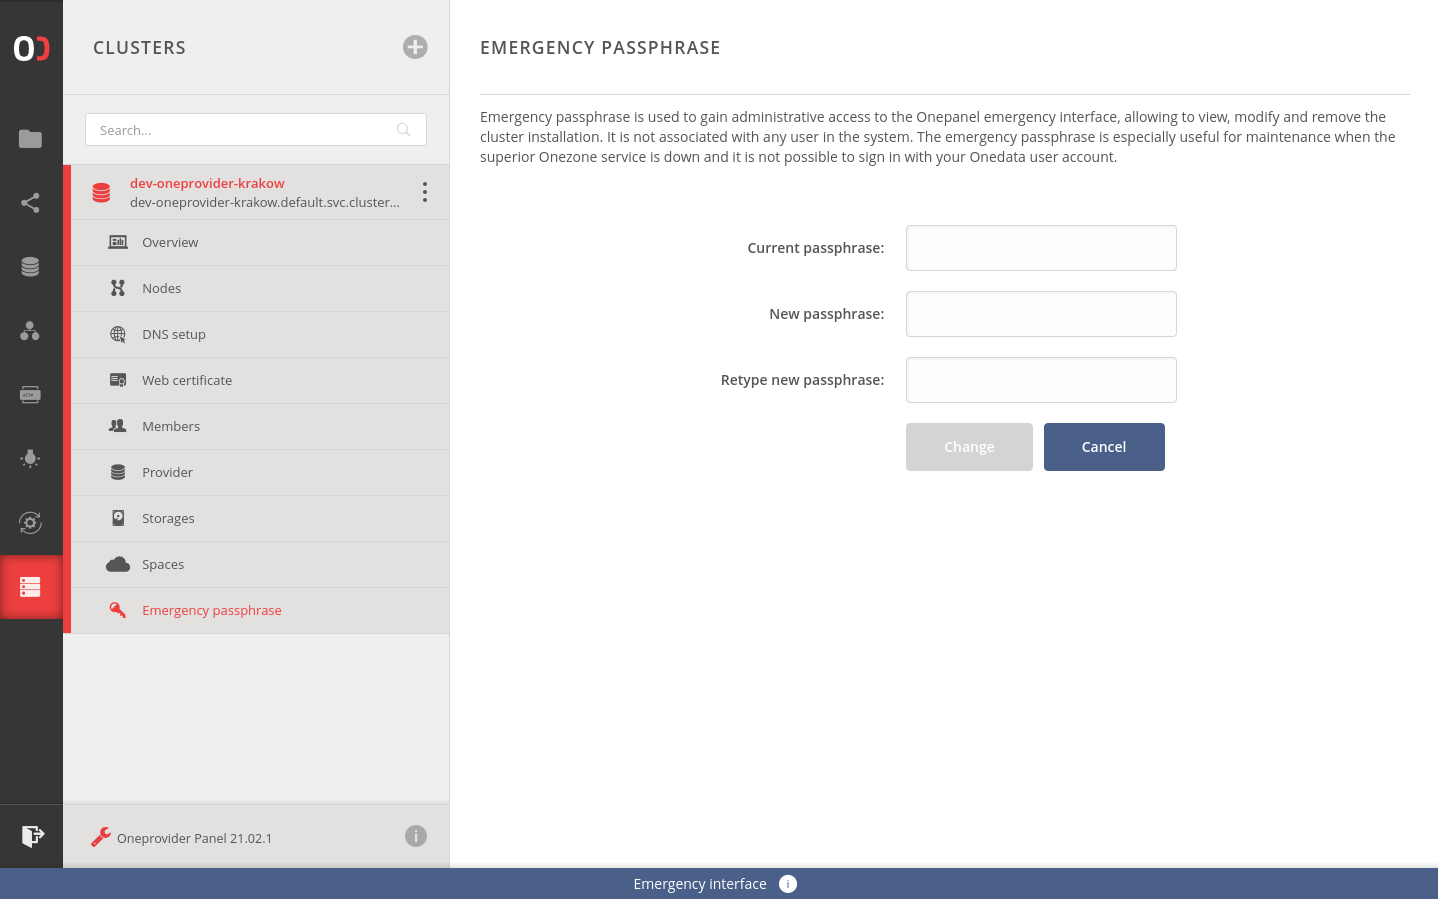
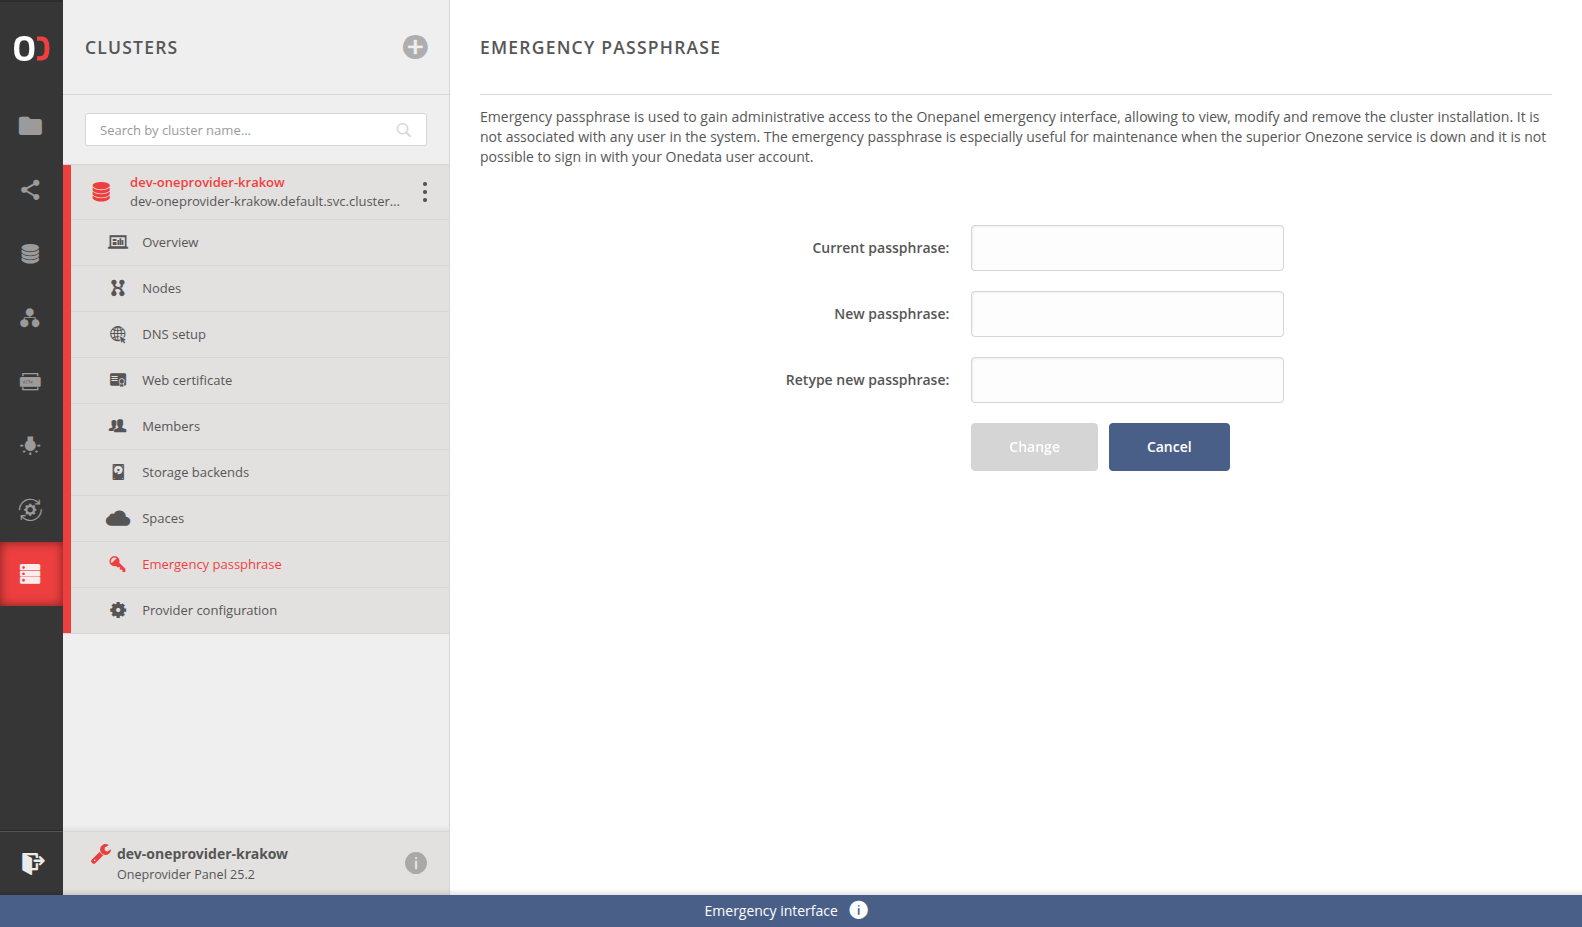
VFS-13162 add templates to administration-panel

diff --git a/partials/admin-guide/administration-panel.md b/partials/admin-guide/administration-panel.md
@@ -1,0 +1,140 @@
+# Administration panel
+
+[toc][]
+
+## Overview
+
+The administration panel, provided by the Onepanel service, is responsible for
+managing the **@insert serviceUpper** cluster. Examples of tasks performed with Onepanel
+include:
+
+**@insert features**
+* and others in the [Configuration][] subsection.
+
+All of these tasks are available both as a web application and through a
+[REST API][]. Their usage is described in the *Configuration* subsection.
+
+## Accessing the administration panel
+
+The administration panel is part of the unified [User Web interface][], so you
+use it in the same way as the rest of the GUI. There are two ways to access it:
+
+1. through the Onezone service interface (the default),
+2. through the Emergency Interface (for emergencies only).
+
+### Access via Onezone service interface
+
+This is the default and recommended method. Log in to Onezone with your user
+account as usual, open the **CLUSTERS** tab and select the **@insert serviceUpper** cluster.
+
+When you open a cluster in the **CLUSTERS** tab, the GUI connects behind the
+scenes to the Onepanel service deployed in that cluster. You still work in the
+unified Onezone interface, which only serves the UI files. Onepanel contacts
+Onezone in the background to validate your credentials, so it does not need a
+separate account for you. Your access is governed by your cluster membership and
+privileges (see [Managing access to the administration panel][1]).
+
+![screen-onepanel-hosted][]
+
+This method may be unavailable if there are problems with the system, for
+example when the Onezone service is down. In such cases, use the emergency
+interface.
+
+### Access via Emergency Interface
+
+The emergency interface is intended only for emergencies in which logging in
+through Onezone is not possible, for example when the Onezone service is
+unavailable or you have lost access because of incorrect membership or privilege
+settings. Do not use it for everyday administration.
+
+The emergency interface is usually located at `https://**@insert domain**:9443`,
+where `**@insert domain**` is the **@insert serviceUpper** domain. You can also open it
+using the IP address of one of the cluster nodes. This is useful if port 9443 is
+not exposed publicly and you must connect from a VPN or an intranet.
+
+Click **Sign in to emergency interface** and provide the [emergency passphrase][].
+
+::: tip NOTE
+In this mode, your session is not related to any Onezone user. You act as the `root`
+account of Onepanel, which has all rights. Each Onepanel (Oneprovider and Onezone)
+has its own `root` account.
+
+Because you are not in the unified Onezone GUI, the interface is limited to the
+administration panel of this cluster. You cannot navigate to other Onedata
+resources, such as spaces or groups.
+:::
+
+![screen-onepanel-emergency-login][]
+
+#### Emergency passphrase
+
+The emergency passphrase is a secret that was set during the installation of the
+**@insert serviceUpper** cluster. It lets you enter the administration panel when you cannot
+use your Onezone user account.
+
+::: warning
+Avoid using the emergency interface and keep the passphrase secret. Anyone who
+knows it gets full control of the cluster, so leaking it can lead to
+unauthorized access by third parties and data loss.
+:::
+
+::: tip NOTE
+Do not confuse the `root` account with the `admin` user. A Onezone deployment
+creates a special `admin` user whose password initially equals the Onezone
+emergency passphrase, but it can be changed independently. This is an ordinary
+Onezone user account with privileges assigned to it, unlike `root`, which is not a
+Onezone user. See [Administrative privileges][] for details.
+:::
+
+#### Changing the emergency interface passphrase
+
+You can change the emergency passphrase if you suspect that the current one is
+no longer secure. This is possible only through the emergency interface of the
+administration panel, in the **Clusters > *Cluster name* > Emergency passphrase**
+view.
+
+![screen-change-emergency-passphrase][]
+
+## Managing access to the administration panel
+
+Access to the administration panel works like access to any other resource in
+Onedata and follows the [Membership model][]. Users who are members of a
+**@insert serviceUpper** cluster can access its administration panel, and what they can do
+there depends on the privileges assigned to them in the cluster.
+
+The list of members is available in the **Clusters > *Cluster name* > Members**
+view. There you can add and remove members and change their privileges. Learn
+more in the [cluster members][] chapter.
+
+::: tip
+Member settings do not apply to the emergency interface. Signing in with the
+emergency passphrase always grants full management rights to the cluster.
+:::
+
+<!-- references -->
+
+[toc]: <>
+
+[Emergency Passphrase]: #emergency-passphrase
+
+[Administrative privileges]: ../administrative-privileges.md#the-default-admin-user
+
+[cluster members]: configuration/cluster-members.md
+
+**@insert featureReferences**
+
+[Configuration]: ./configuration/cluster-members.md
+
+[REST API]: ./configuration/rest-api.md
+
+[User Web interface]: ../../user-guide/user-web-interface.md
+
+[Membership model]: ../../user-guide/groups-memberships.md#membership-model-overview
+
+[screen-onepanel-hosted]: **@insert screenshotDirectory**/onepanel-hosted.png
+
+[screen-onepanel-emergency-login]: **@insert screenshotDirectory**/onepanel-emergency-login.png
+
+[screen-change-emergency-passphrase]: **@insert screenshotDirectory**/change-emergency-passphrase.png
+
+[1]: #managing-access-to-the-administration-panel

diff --git a/docs/admin-guide/onezone/administration-panel.md b/docs/admin-guide/onezone/administration-panel.md
@@ -1,5 +1,7 @@
 # Administration panel
 
+<!-- THIS FILE WAS GENERATED FROM TEMPLATE, DO NOT EDIT IT MANUALLY -->
+
 [toc][]
 
 ## Overview
@@ -134,10 +136,11 @@ emergency passphrase always grants full management rights to the cluster.
 
 [Membership model]: ../../user-guide/groups-memberships.md#membership-model-overview
 
-[screen-onepanel-hosted]: ../../../images/admin-guide/oneprovider/administration-panel/onepanel-hosted.png
+[screen-onepanel-hosted]: ../../../images/admin-guide/onezone/administration-panel/onepanel-hosted.png
 
-[screen-onepanel-emergency-login]: ../../../images/admin-guide/oneprovider/administration-panel/onepanel-emergency-login.png
+[screen-onepanel-emergency-login]: ../../../images/admin-guide/onezone/administration-panel/onepanel-emergency-login.png
 
-[screen-change-emergency-passphrase]: ../../../images/admin-guide/oneprovider/administration-panel/change-emergency-passphrase.png
+[screen-change-emergency-passphrase]: ../../../images/admin-guide/onezone/administration-panel/change-emergency-passphrase.png
 
 [1]: #managing-access-to-the-administration-panel
+

diff --git a/docs/admin-guide/oneprovider/administration-panel.md b/docs/admin-guide/oneprovider/administration-panel.md
@@ -1,5 +1,7 @@
 # Administration panel
 
+<!-- THIS FILE WAS GENERATED FROM TEMPLATE, DO NOT EDIT IT MANUALLY -->
+
 [toc][]
 
 ## Overview
@@ -28,8 +30,7 @@ use it in the same way as the rest of the GUI. There are two ways to access it:
 ### Access via Onezone service interface
 
 This is the default and recommended method. Log in to Onezone with your user
-account as usual, open the **CLUSTERS** tab and select the Oneprovider cluster
-you want to manage.
+account as usual, open the **CLUSTERS** tab and select the Oneprovider cluster.
 
 When you open a cluster in the **CLUSTERS** tab, the GUI connects behind the
 scenes to the Onepanel service deployed in that cluster. You still work in the
@@ -148,3 +149,4 @@ emergency passphrase always grants full management rights to the cluster.
 [screen-change-emergency-passphrase]: ../../../images/admin-guide/oneprovider/administration-panel/change-emergency-passphrase.png
 
 [1]: #managing-access-to-the-administration-panel
+

diff --git a/templates/admin-guide/oneprovider/administration-panel.md b/templates/admin-guide/oneprovider/administration-panel.md
@@ -1,0 +1,9 @@
+<!-- @include admin-guide/administration-panel.md
+  {
+    "serviceUpper": "Oneprovider",
+    "domain": "my.provider.domain.org",
+    "features": "* installing Oneprovider using the [graphical wizard][],\n* [managing certificates][],\n* adding new [storage backends][],\n* [supporting spaces][] with existing storage backends,",
+    "featureReferences": "[graphical wizard]: ./installation/graphical-wizard.md\n\n[managing certificates]: ./configuration/web-certificate.md\n\n[storage backends]: ./configuration/storage-backends.md\n\n[supporting spaces]: ./configuration/space-support.md",
+    "screenshotDirectory": "../../../images/admin-guide/oneprovider/administration-panel"
+  }
+-->

diff --git a/templates/admin-guide/onezone/administration-panel.md b/templates/admin-guide/onezone/administration-panel.md
@@ -1,0 +1,9 @@
+<!-- @include admin-guide/administration-panel.md
+  {
+    "serviceUpper": "Onezone",
+    "domain": "onezone.domain.org",
+    "features": "* installing Onezone using the [docker-compose][],\n* [managing certificates][],",
+    "featureReferences": "[docker-compose]: ./installation.md\n\n[managing certificates]: ./configuration/web-certificate.md",
+    "screenshotDirectory": "../../../images/admin-guide/onezone/administration-panel"
+  }
+-->
